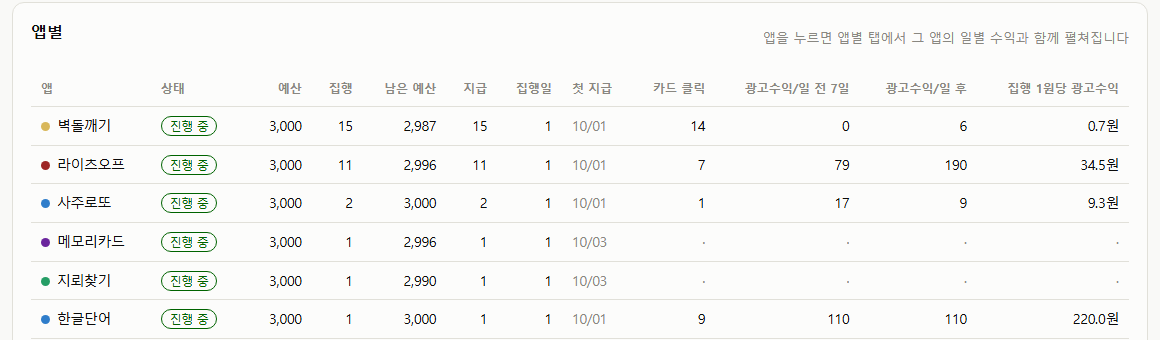
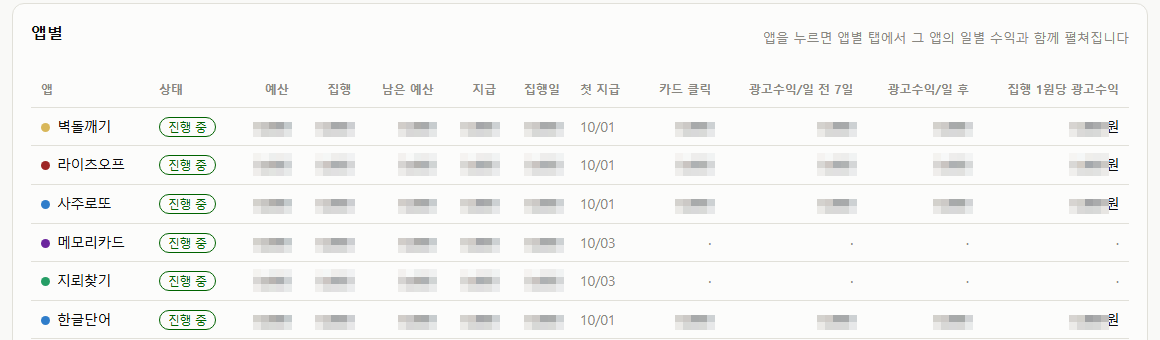
수익 장부 업데이트 글: 스크린샷 3장의 금액·눈금·표 숫자 모자이크(ko/en)
수익 금액은 공개하지 않는다(사용자 지시). 날짜만 남기고 숫자는 같은 가짜 값으로
바꾼 뒤 픽셀화해 모자이크를 되돌려도 실제 값·자릿수가 나오지 않게 했다. 캡션에 가렸다고 표시.

diff --git a/_en_posts/2026-10-03-revenue-ledger-update.md b/_en_posts/2026-10-03-revenue-ledger-update.md
@@ -56,7 +56,7 @@ It also now tells **a zero day** apart from **a day that was never collected.** 
 A **Total · Toss · Play** switch now sits at the top. Pick one and every metric, chart and table is recalculated for that platform. In the total view each table gains a Toss column and a Play column, and the "this month" card shows both shares.
 
 ![Total view — key metrics and daily revenue](/assets/img/20261003_revenue-ledger-update/overview.png){: w="760" }
-_The total view. The this-month card splits Toss and Play, and promotion spend has a card of its own_
+_The total view. The this-month card splits Toss and Play, and promotion spend has a card of its own. Figures are blurred_
 
 Both Toss and AdMob are loaded **only up to yesterday.** If one side had today's numbers and the other did not, the last day of the total would be a fragment and look like a sudden drop.
 
@@ -64,7 +64,7 @@ Both Toss and AdMob are loaded **only up to yesterday.** If one side had today's
 Click an app in the per-app table and **its daily revenue opens right below it.** No page change, and only one app is open at a time.
 
 ![One app expanded — daily bars and table](/assets/img/20261003_revenue-ledger-update/app-detail.png){: w="760" }
-_Breakout expanded. Toss is stacked below and Play above; the dashed line marks the first promotion payout_
+_Breakout expanded. Toss is stacked below and Play above; the dashed line marks the first promotion payout. Figures are blurred_
 
 - Changing the period (14 days, 30 days, all) updates the summary, chart and table together.
 - Days **before an app launched count as "no data", not zero.** A mid-September app's 30-day average no longer looks low because of pre-launch zeros.
@@ -80,7 +80,7 @@ With the 1 KRW promotion running in 26 apps, I wanted to see every day how many 
 The dashboard has a new **Promotions** tab. For each app it puts **the average daily Toss ad revenue in the seven days before the first payout** next to the average since, and computes **ad revenue per 1 KRW spent.** If 1 KRW brings in more than 1 KRW, we keep going; if not, we stop.
 
 ![Promotions tab — payouts per app and ad revenue before and after](/assets/img/20261003_revenue-ledger-update/promo.png){: w="760" }
-_Taken around noon on 3 October, so today's payouts are only partly in. With one day of data, the per-1-KRW figures are for reference only_
+_Each app gets one row with its budget, spend, and ad revenue before and after the first payout. Figures are blurred_
 
 ## 6. One Name for Toss and Play
 The dashboard showed "Name Lotto" and the full Play store title of the same app as two separate rows. The Toss side used a label I had written; the Play side came in with the store title registered in AdMob. As a result, our four lotto apps looked as if they earned nothing on Toss.
